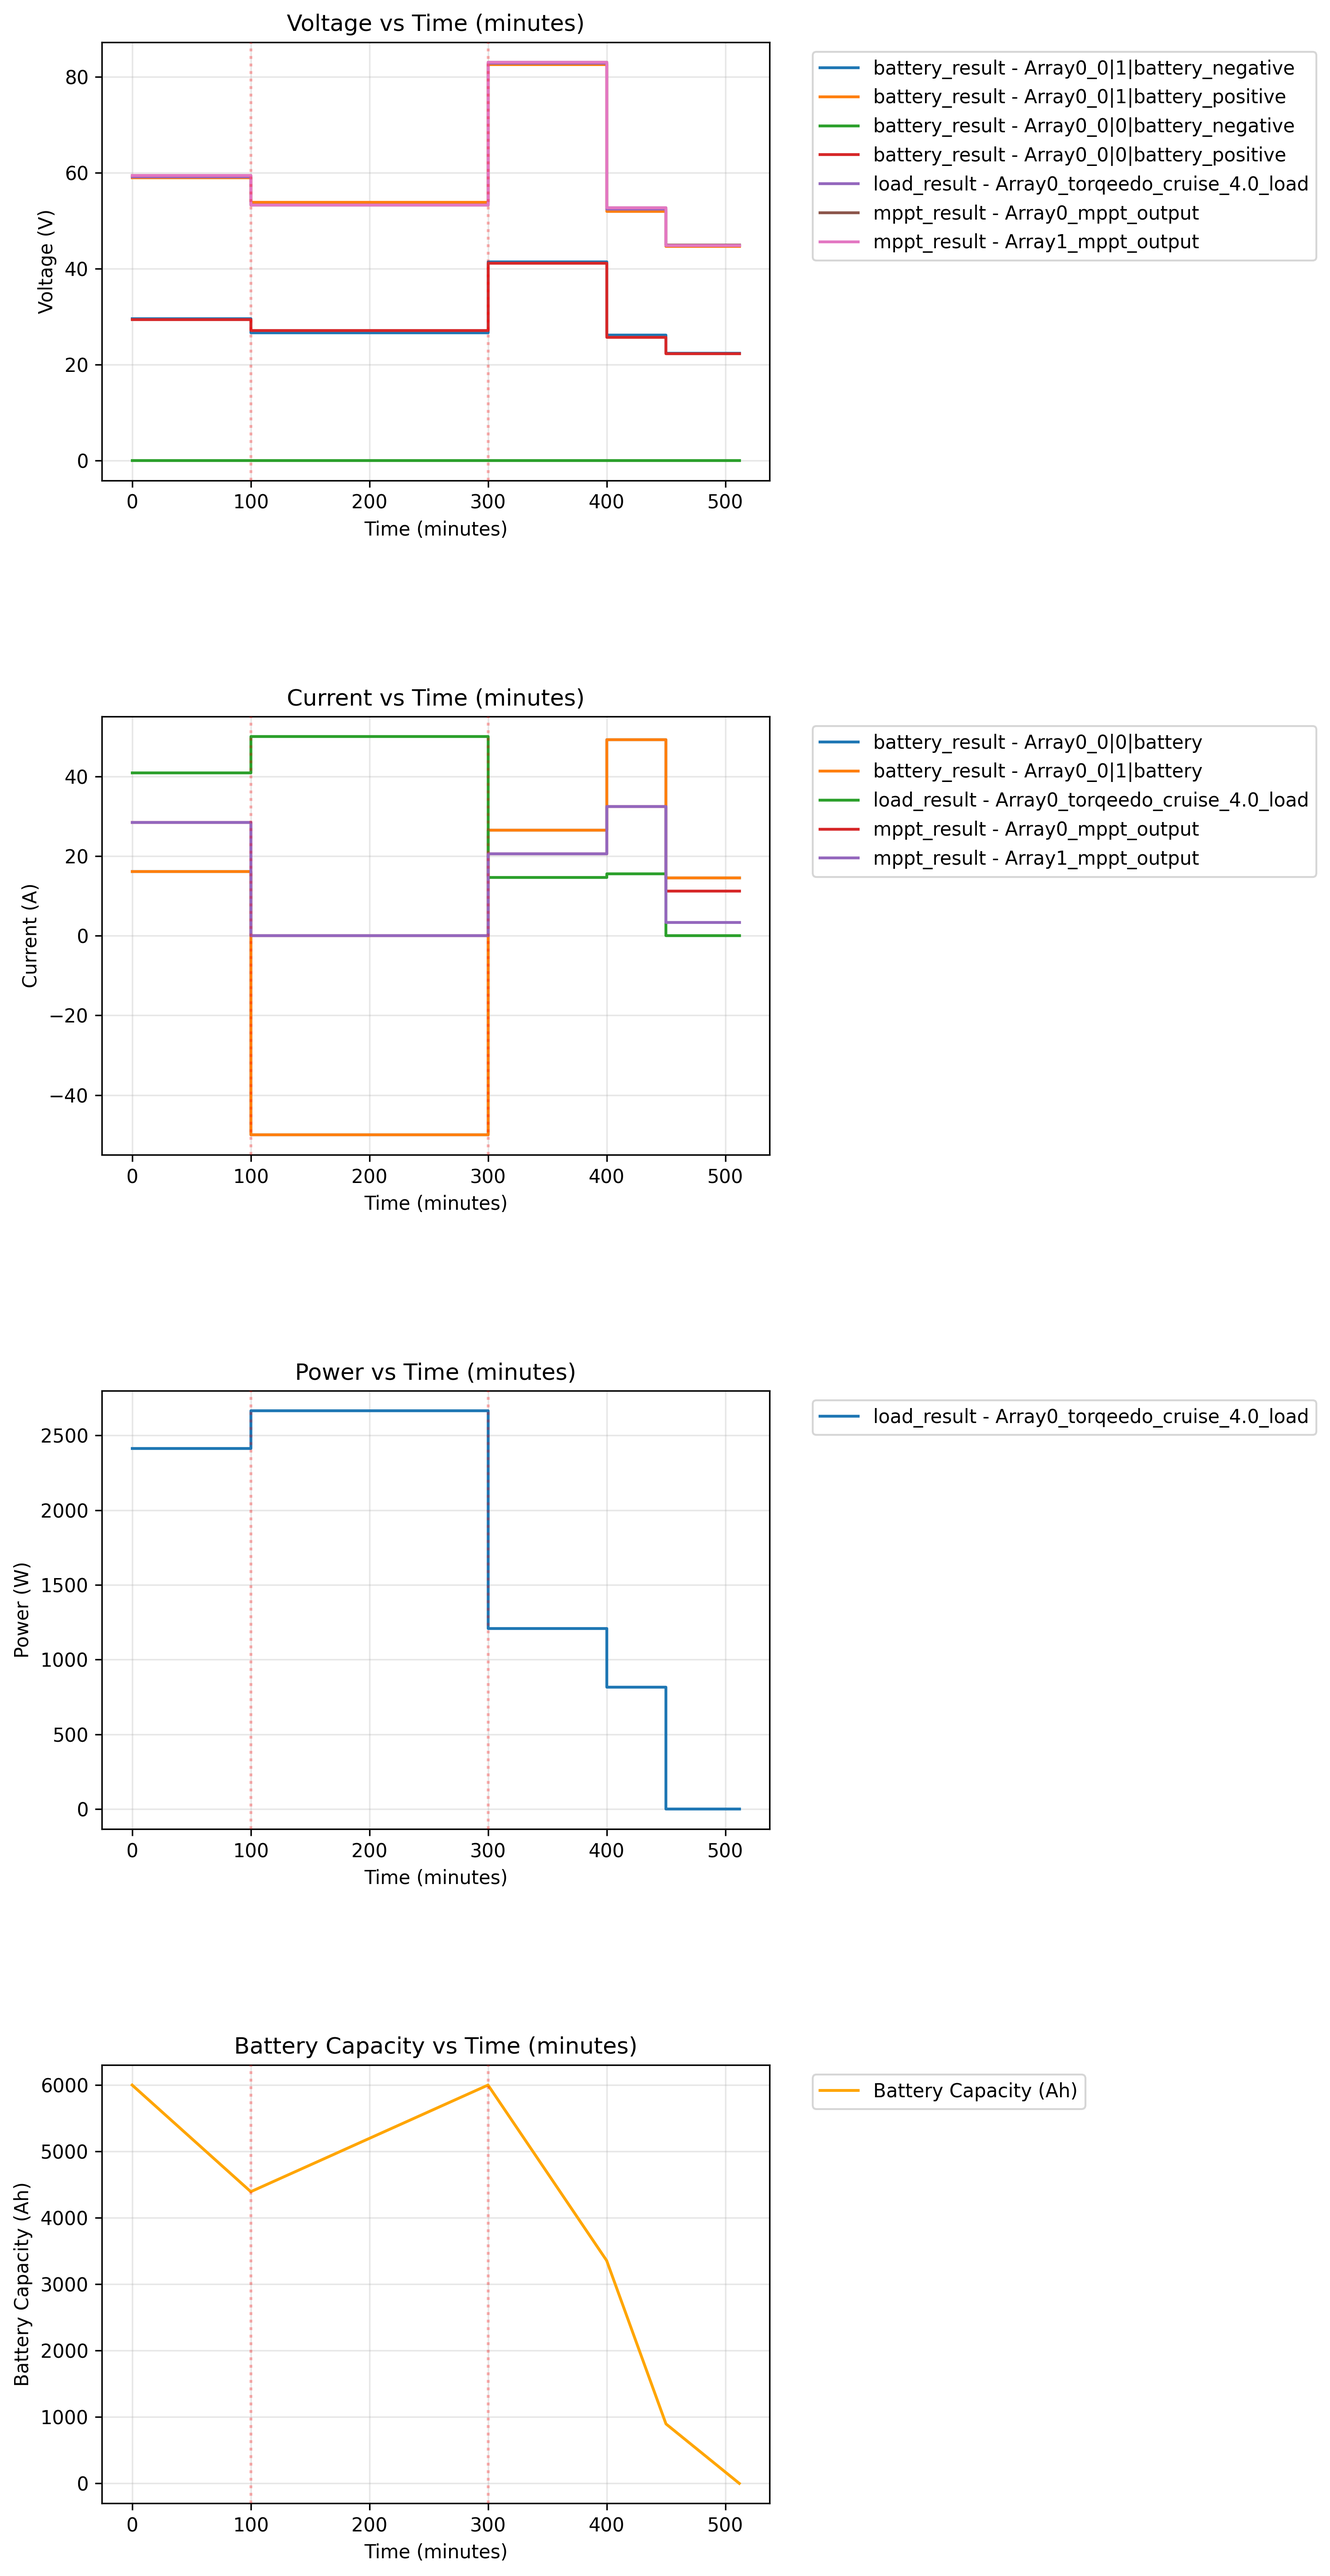
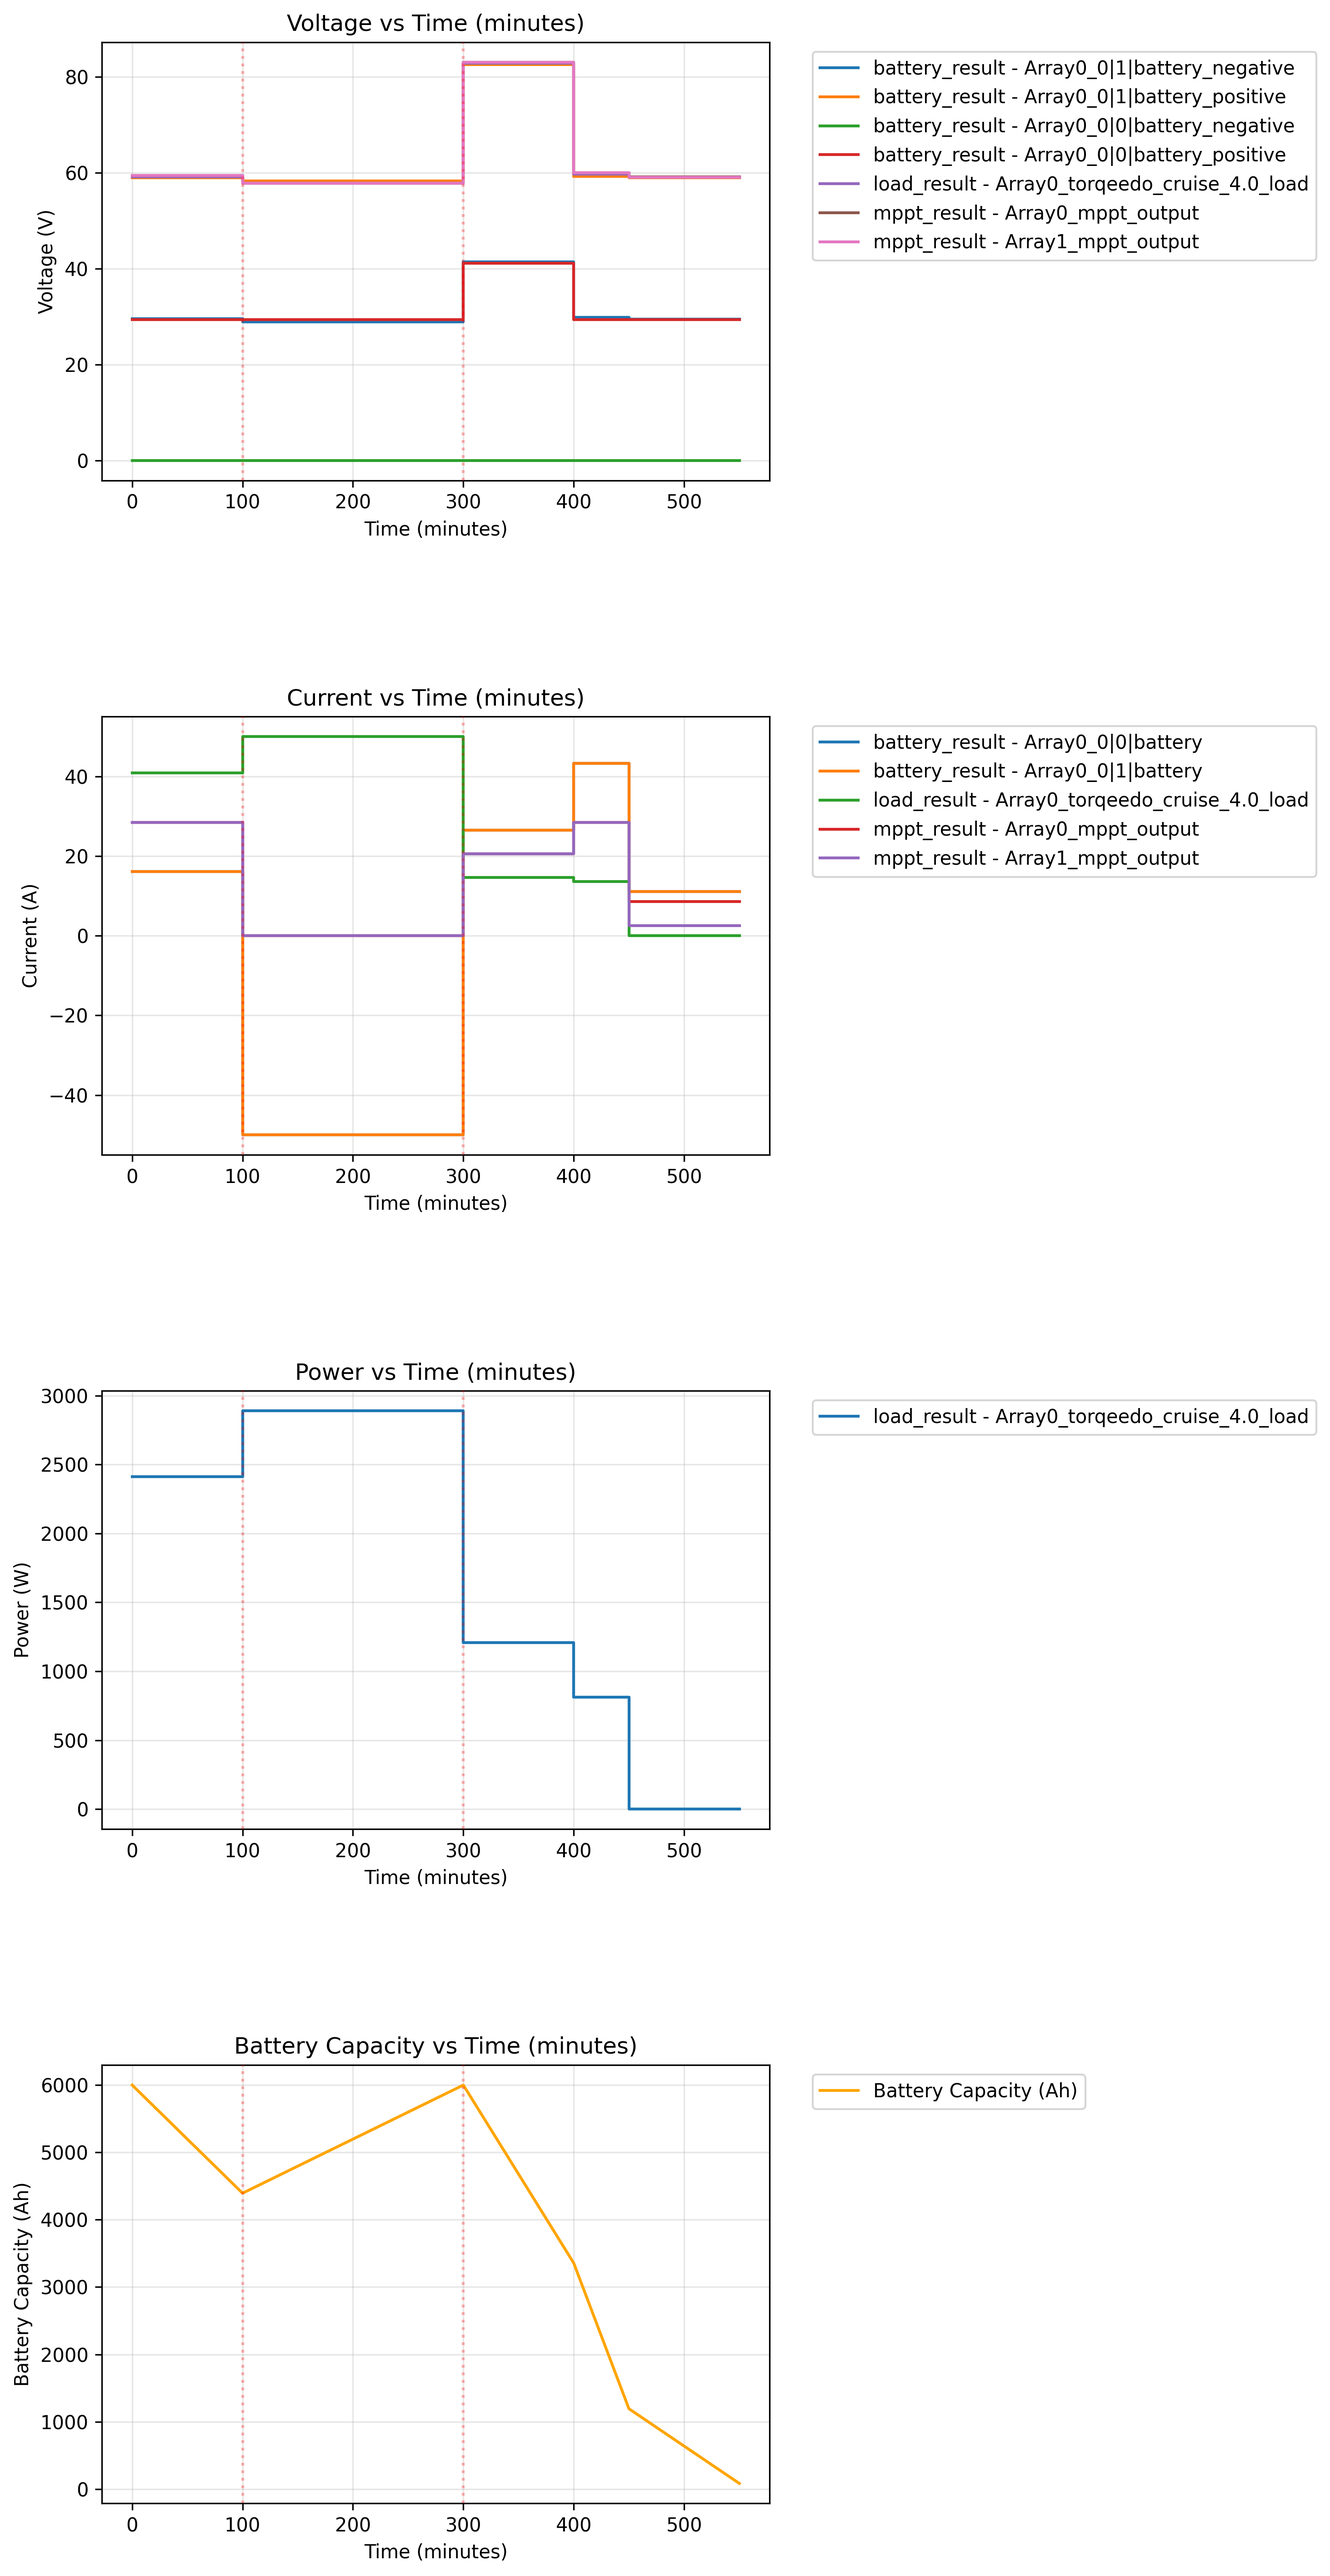
Fixing incorrect soc calculation (Exceed 100%)

diff --git a/PySpice/simulation_over_time.py b/PySpice/simulation_over_time.py
@@ -25,7 +25,7 @@ def start_voyage(circuit_config_loc: str, voyage_config_loc: str, save_path: str
     battery_max_voltage = battery_setup_info['max_voltage']
     
     current_capacity_Amin = current_soc * battery_capacity_Amin
-    print('Starting SOC:', current_soc, 'Capacity (Amin):', current_capacity_Amin)
+
     time_range_min = [0]
     results = []
     battery_capacity_list = [current_capacity_Amin]
@@ -82,11 +82,8 @@ def start_voyage(circuit_config_loc: str, voyage_config_loc: str, save_path: str
             results.append(result)
             time_range_min.append(time_range_min[-1] + minues_to_empty)
         else:
-            print('before', current_capacity_Amin, time_range_min[-1])
-            print(discharge_current_A, duration_minutes)
             current_capacity_Amin += discharge_current_A * duration_minutes
-            print('after', current_capacity_Amin, time_range_min[-1] + duration_minutes)
-            current_soc = (current_capacity_Amin / battery_capacity_Amin)
+            current_soc = max(1.0, (current_capacity_Amin / battery_capacity_Amin))
             
             results.append(result)
             time_range_min.append(time_range_min[-1])
@@ -94,17 +91,11 @@ def start_voyage(circuit_config_loc: str, voyage_config_loc: str, save_path: str
             results.append(result)
             time_range_min.append(time_range_min[-1] + duration_minutes)
 
-        print(current_capacity_Amin, battery_capacity_Amin)
-        print(battery_capacity_list)
         # Re-add the same time since capacity drains, not jump to value
         battery_capacity_list.append(battery_capacity_list[-1])
         current_capacity_Amin = min(battery_capacity_Amin, current_capacity_Amin)
         battery_capacity_list.append(current_capacity_Amin)
-        print('wtd', battery_capacity_list)
-    
-    print(len(time_range_min), len(results), len(battery_capacity_list))
-    print(time_range_min)
-    print(battery_capacity_list)
+
     results = [results[0]] + results
     generate_graph(results=results, x_axis=time_range_min, x_label="Time (minutes)",
                    voltage_display_choice=['battery_result', 'load_result', "mppt_result"],
@@ -129,4 +120,5 @@ def real_time_digital_simulation(circuit_config_loc: str, ngspice_available: boo
     
 def estimate_battery_voltage(soc, min_voltage, max_voltage):
     """Simple linear estimation"""
+    print('soc',soc)
     return min_voltage + (max_voltage - min_voltage) * soc

diff --git a/PySpice/sweep_graph_generation.py b/PySpice/sweep_graph_generation.py
@@ -4,6 +4,7 @@ import numpy as np
 import os
 from typing import List, Dict
 
+from configurations.constants import EPSILON
 from configurations.simulation_config import SHOW_SWEEP_PLOT
 
 
@@ -68,7 +69,10 @@ def generate_graph(results: list, x_axis: list, x_label: str = "",
             voltages = extract_traces(results, category, 'voltage')
             
             for label, values in voltages.items():
-
+                """ if 'battery' in label:
+                    print(sum(values) / len(values))
+                    if sum(values) / len(values) < EPSILON:
+                        continue """
                 ax.plot(x_axis, values, marker=MARKER_STYLE, markersize=MARKER_SIZE, 
                        label=f"{category} - {label}", 
                        color=colors[color_idx % len(colors)])

diff --git a/PySpice/configurations/constants.py b/PySpice/configurations/constants.py
@@ -2,7 +2,7 @@ GROUNDING_RESISTANCE    = 1e-6
 WIRE_RESISTANCE         = 0.01
 BARF                    = "=" * 50 + "\n"
 BARE                    = "\n" + "=" * 50
-EPSILON = 1e-10
+EPSILON = 1e-4
 
 MPPT_BATTERY_VOLTAGE_BUFFER     = 2.0
 VOLTAGE_MISMATCH_TOLERANCE      = 5.0
